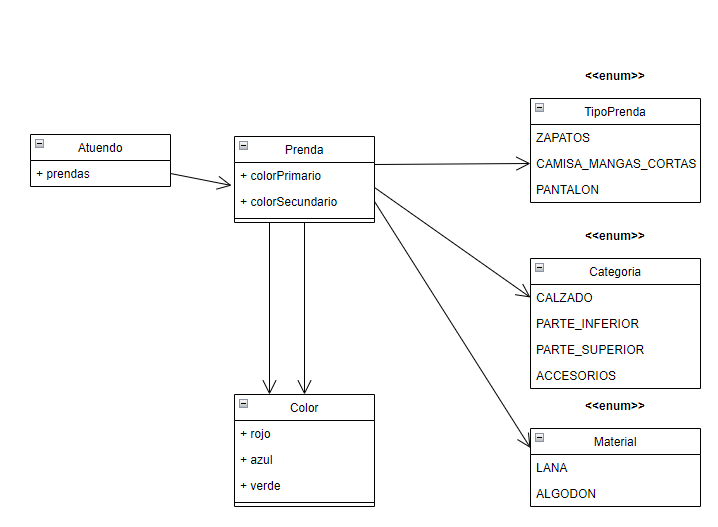
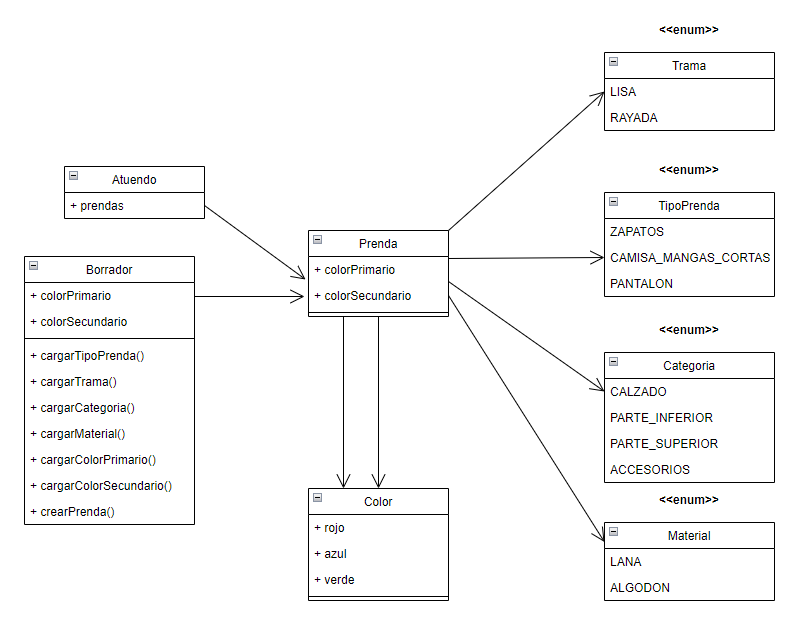
feat: agrego funcionalidad

diff --git a/java-base-project/src/main/java/Trama.java b/java-base-project/src/main/java/Trama.java
@@ -1,0 +1,3 @@
+public enum Trama {
+  LISA, RAYADA
+}

diff --git a/java-base-project/src/main/java/Borrador.java b/java-base-project/src/main/java/Borrador.java
@@ -1,0 +1,2 @@
+public class Borrador {
+}
